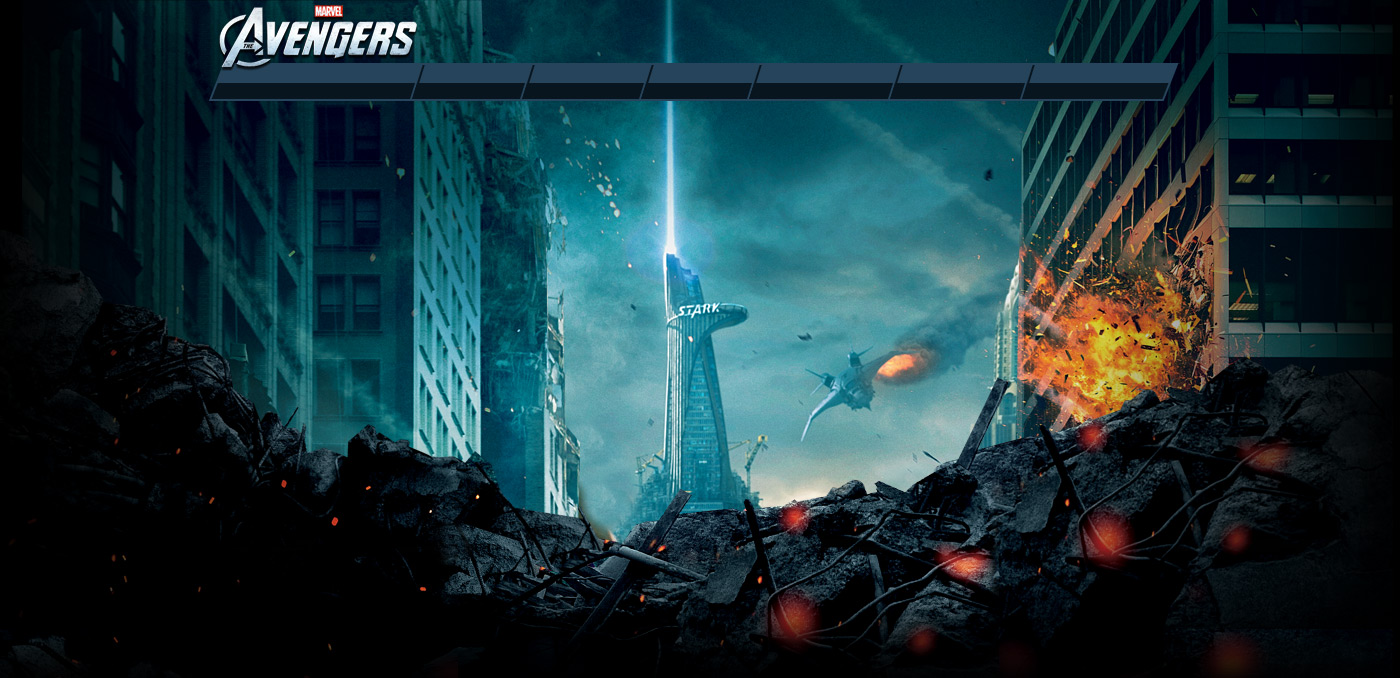
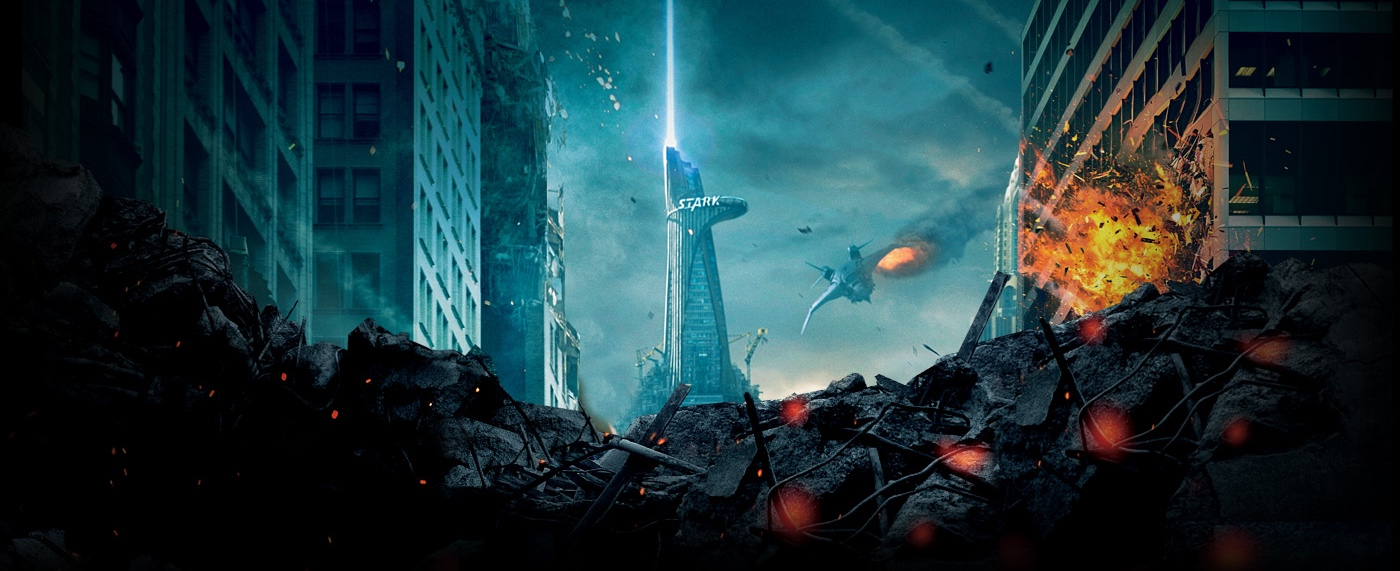
updated navbar, added background image, updated css font so it's legible, updated page controller switch cases

diff --git a/public/css/main.css b/public/css/main.css
@@ -1,6 +1,11 @@
-
-body{
-	background: url('img/website-background.jpg') no-repeat center center fixed;
+body {
+   background-image:url(img/website-background.jpg);
+   background-repeat: no-repeat;
+   background-size: 100% 100%;
+   color: white;
+}
+html {
+   height: 100%
 }
 
 /*Create Ad*/

diff --git a/views/partials/navbar.php b/views/partials/navbar.php
@@ -1,58 +1,46 @@
-<!DOCTYPE html>
-<html>
-<head>
-		<meta charset="utf-8">
-		<meta http-equiv="X-UA-Compatible" content="IE=edge">
-		<meta name="viewport" content="width=device-width, initial-scale=1">
-	<title>Navbar</title>
-	<link href="css/bootstrap.min.css" rel="stylesheet">
-</head>
-<body>
-		<nav class="navbar navbar-default">
-				<div class="container-fluid">
-				<!-- mobile display -->
-				<div class="navbar-header">
-					<button type="button" class="navbar-toggle collapsed" data-toggle="collapse" data-target="#bs-example-navbar-collapse-1" aria-expanded="false">
-						<span class="sr-only">Toggle navigation</span>
-						<span class="icon-bar"></span>
-						<span class="icon-bar"></span>
-						<span class="icon-bar"></span>
-					</button>
-					<a class="navbar-brand" href="#">CRGS</a>
-				</div>
+<nav class="navbar navbar-default">
+	<div class="container-fluid">
+		<!-- mobile display -->
+		<div class="navbar-header">
+			<button type="button" class="navbar-toggle collapsed" data-toggle="collapse" data-target="#bs-example-navbar-collapse-1" aria-expanded="false">
+				<span class="sr-only">Toggle navigation</span>
+				<span class="icon-bar"></span>
+				<span class="icon-bar"></span>
+				<span class="icon-bar"></span>
+			</button>
+			<a class="navbar-brand" href="#">CRGS</a>
+		</div>
 
-				<div class="collapse navbar-collapse" id="bs-example-navbar-collapse-1">
-					<ul class="nav navbar-nav">
-						<li class="active"><a href="#">Home <span class="sr-only">(current)</span></a></li>
-						<li><a href="#">Items</a></li>
+		<div class="collapse navbar-collapse" id="bs-example-navbar-collapse-1">
+			<ul class="nav navbar-nav">
+				<li class="active"><a href="#">Home <span class="sr-only">(current)</span></a></li>
+				<li><a href="#">Items</a></li>
+				<li><a href="#">Create Ad</a></li>
+				<li><a href="#">Sign Up</a></li>
+				<li><a href="#">Login</a></li>
+				<li><a href="#">Logout</a></li>
+			</ul>
+			<ul class="nav navbar-nav navbar-right">
+				<li class="dropdown">
+					<a href="#" class="dropdown-toggle" data-toggle="dropdown" role="button" aria-haspopup="true" aria-expanded="false">Your Account <span class="caret"></span></a>
+					<ul class="dropdown-menu">
+						<li><a href="#">Profile</a></li>
 						<li><a href="#">Create Ad</a></li>
-						<li><a href="#">Sign Up</a></li>
-						<li><a href="#">Login</a></li>
+						<li><a href="#">Your Ads</a></li>
+						<li><a href="#">Edit Ads</a></li>
+						<li role="separator" class="divider"></li>
 						<li><a href="#">Logout</a></li>
 					</ul>
-					<ul class="nav navbar-nav navbar-right">
-						<li class="dropdown">
-							<a href="#" class="dropdown-toggle" data-toggle="dropdown" role="button" aria-haspopup="true" aria-expanded="false">Your Account <span class="caret"></span></a>
-							<ul class="dropdown-menu">
-								<li><a href="#">Profile</a></li>
-								<li><a href="#">Create Ad</a></li>
-								<li><a href="#">Your Ads</a></li>
-								<li><a href="#">Edit Ads</a></li>
-								<li role="separator" class="divider"></li>
-								<li><a href="#">Logout</a></li>
-							</ul>
-						</li>
-					</ul>
-					<form class="navbar-form navbar-left">
-						<div class="form-group">
-							<input type="text" class="form-control" placeholder="Search">
-						</div>
-						<button type="submit" class="btn btn-default">Submit</button>
-					</form>
+				</li>
+			</ul>
+			<form class="navbar-form navbar-left">
+				<div class="form-group">
+					<input type="text" class="form-control" placeholder="Search">
 				</div>
-			</div>
-		</nav>
-		<script src="https://ajax.googleapis.com/ajax/libs/jquery/1.12.4/jquery.min.js"></script>
-		<script src="js/bootstrap.min.js"></script>
-</body>
-</html>
+				<button type="submit" class="btn btn-default">Submit</button>
+			</form>
+		</div>
+	</div>
+</nav>
+		
+

diff --git a/controllers/PageController.php b/controllers/PageController.php
@@ -5,26 +5,36 @@ require_once __DIR__ . '/../utils/helper_functions.php';
 function pageController()
 {
 
-    // defines array to be returned and extracted for view
-    $data = [];
+	// defines array to be returned and extracted for view
+	$data = [];
 
-    // finds position for ? in url so we can look at the url minus the get variables
-    $request = parse_url($_SERVER['REQUEST_URI'], PHP_URL_PATH);
+	// finds position for ? in url so we can look at the url minus the get variables
+	$request = parse_url($_SERVER['REQUEST_URI'], PHP_URL_PATH);
 
-    // switch that will run functions and setup variables dependent on what route was accessed
-    switch ($request) {
+	// switch that will run functions and setup variables dependent on what route was accessed
+	switch ($request) {
 
 
-        default:    // displays 404 if route not specified above
-            $main_view = '../views/404.php';
-        case '': 
-            $main_view = '../views/users/login.php';
-            break;
-    }
+		default:    // displays 404 if route not specified above
+			$main_view = '../views/404.php';
+			break;
+		case $request = '': 
+			$main_view = '../views/home.php';
+			break;
+		// case (clicked sign up button)
+		//     $main_view = '../views/users/signup.php';
+		//     break;
+		// case (clicked login button):
+		//     $main_view = '../views/users/login.php';
+		//     break;
+		// case (logged in):
+		//     $main_view = '../views/users/account.php';
+		//     break;
+	}
 
-    $data['main_view'] = $main_view;
+	$data['main_view'] = $main_view;
 
-    return $data;
+	return $data;
 }
 
 extract(pageController());

diff --git a/views/partials/head.php b/views/partials/head.php
@@ -1,5 +1,10 @@
 <!--Partial for head.  Good place to include things like css files.-->
 
+<meta charset="utf-8">
+<meta http-equiv="X-UA-Compatible" content="IE=edge">
+<meta name="viewport" content="width=device-width, initial-scale=1">
 
 
-<link href="../../public/css/main.css" rel="stylesheet">
+	<!--CSS-->
+<link href="../../css/bootstrap.min.css" rel="stylesheet">
+<link href="../../css/main.css" rel="stylesheet">

diff --git a/public/index.php b/public/index.php
@@ -6,7 +6,7 @@ require_once __DIR__ . '/../bootstrap.php';
 <!DOCTYPE html>
 <html>
 <head>
-    <title>OooLister</title>
+    <title>Avengers Assemble!</title>
     <?php require '../views/partials/head.php'; ?>
 </head>
 <body>

diff --git a/views/partials/common_js.php b/views/partials/common_js.php
@@ -1,1 +1,4 @@
 <!--Partial view for common javascipt files-->
+
+<script src="https://ajax.googleapis.com/ajax/libs/jquery/1.12.4/jquery.min.js"></script>
+<script src="js/bootstrap.min.js"></script>

diff --git a/utils/helper_functions.php b/utils/helper_functions.php
@@ -26,3 +26,5 @@ function saveUploadedImage($input_name)
     }
     return null;
 }
+
+
